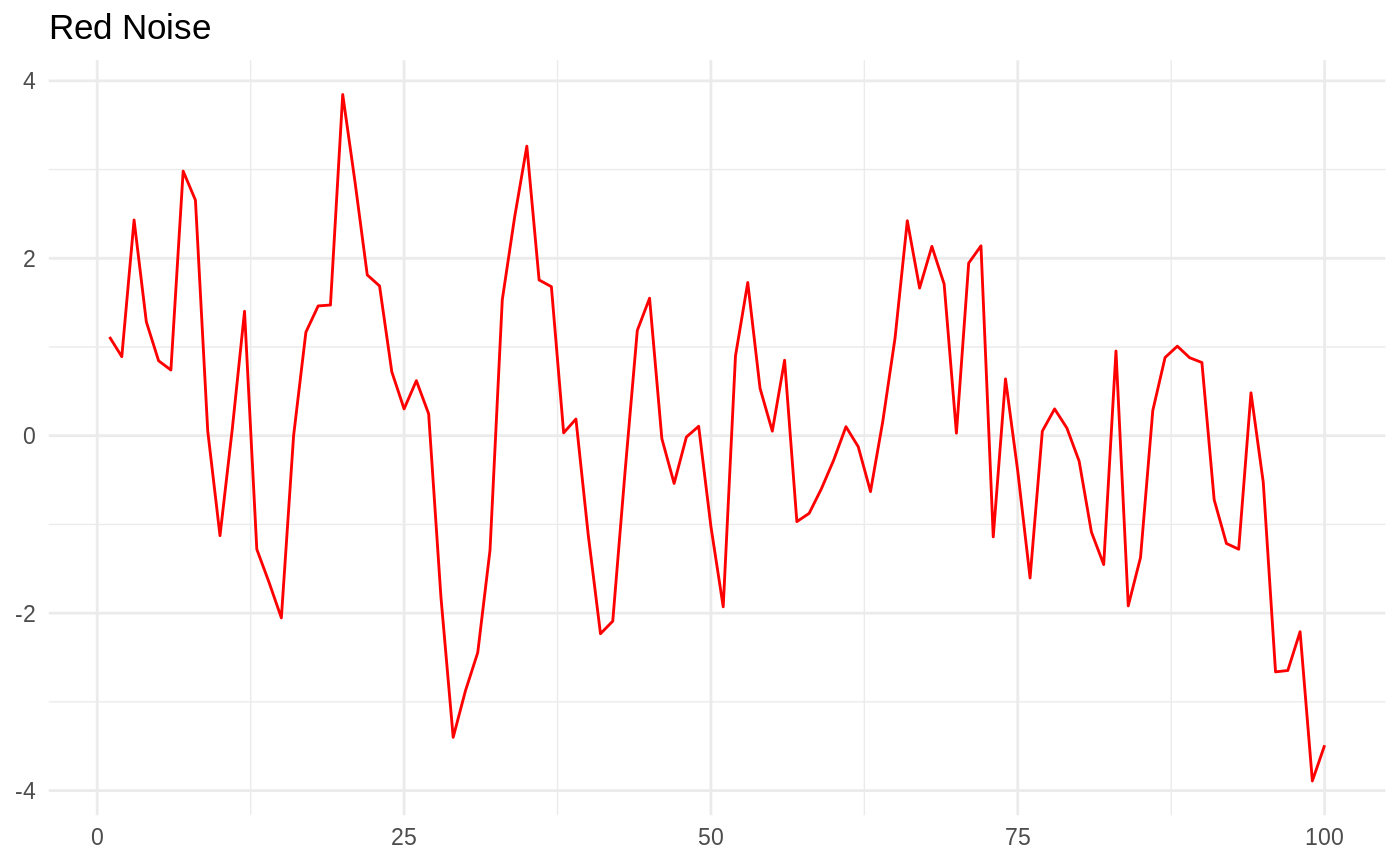
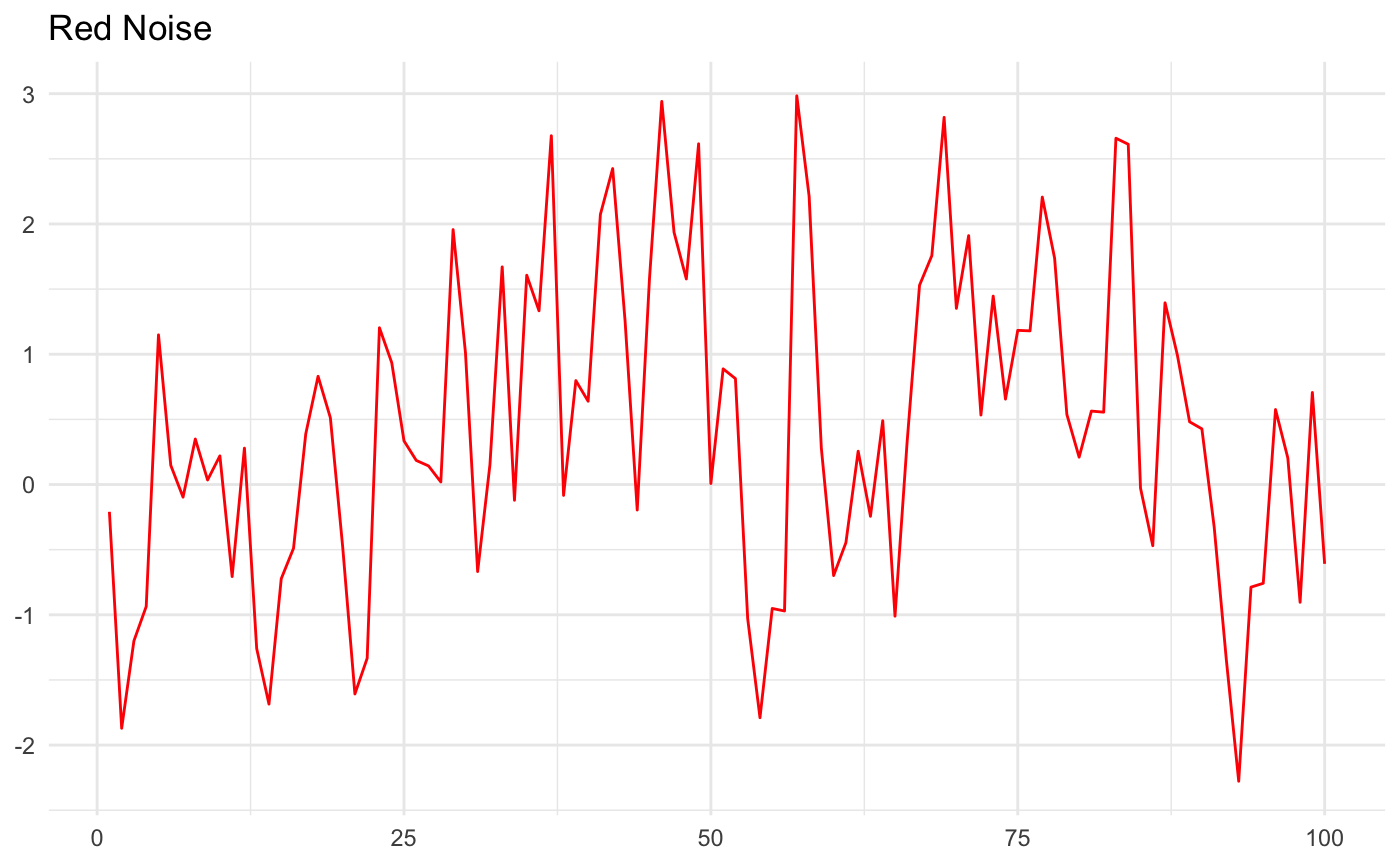
Deploy japilo/colorednoise to github.com/japilo/colorednoise.git:gh-pages

diff --git a/articles/noise.html b/articles/noise.html
@@ -111,12 +111,12 @@
 <p>To show you how you can use this package to simulate and analyze colored noise, I will present a problem for us to solve. Let’s say we want to find out whether our estimates of temporal autocorrelation are biased when the standard deviation of the colored noise is high. First, let’s use the <code>raw_noise</code> function to generate some colored noise with high variance.</p>
 <div class="sourceCode" id="cb1"><html><body><pre class="r"><span class="no">red</span> <span class="kw">&lt;-</span> <span class="fu">colored_noise</span>(<span class="kw">timesteps</span> <span class="kw">=</span> <span class="fl">100</span>, <span class="kw">mean</span> <span class="kw">=</span> <span class="fl">0.3</span>, <span class="kw">sd</span> <span class="kw">=</span> <span class="fl">1.2</span>, <span class="kw">phi</span> <span class="kw">=</span> <span class="fl">0.5</span>)
 <span class="no">red</span>[<span class="fl">1</span>:<span class="fl">10</span>]
-<span class="co">#&gt;  [1]  1.11338642  0.89122190  2.43140940  1.28325965  0.84462601  0.74068681</span>
-<span class="co">#&gt;  [7]  2.98260404  2.65548387  0.05542248 -1.12641164</span>
+<span class="co">#&gt;  [1] -0.20935359 -1.87097168 -1.19974971 -0.93623893  1.14874881  0.14721340</span>
+<span class="co">#&gt;  [7] -0.09697702  0.34928677  0.03485599  0.21962098</span>
 <span class="no">blue</span> <span class="kw">&lt;-</span> <span class="fu">colored_noise</span>(<span class="kw">timesteps</span> <span class="kw">=</span> <span class="fl">100</span>, <span class="kw">mean</span> <span class="kw">=</span> <span class="fl">0.3</span>, <span class="kw">sd</span> <span class="kw">=</span> <span class="fl">1.2</span>, <span class="kw">phi</span> <span class="kw">=</span> -<span class="fl">0.5</span>)
 <span class="no">blue</span>[<span class="fl">1</span>:<span class="fl">10</span>]
-<span class="co">#&gt;  [1]  0.04577544  0.80638740  1.84709282 -0.48648466 -1.10795567  2.17319105</span>
-<span class="co">#&gt;  [7] -0.84642927  1.97186461 -2.42890221  1.59705019</span>
+<span class="co">#&gt;  [1]  1.5516770 -1.7072008  2.4646830 -1.1747160  0.8458874  0.8579653</span>
+<span class="co">#&gt;  [7] -0.8171834  0.7091168  0.2623846  0.9916333</span>
 <span class="fu">ggplot</span>(<span class="kw">data</span> <span class="kw">=</span> <span class="kw">NULL</span>, <span class="fu">aes</span>(<span class="kw">x</span> <span class="kw">=</span> <span class="fu"><a href="https://rdrr.io/r/base/c.html">c</a></span>(<span class="fl">1</span>:<span class="fl">100</span>), <span class="kw">y</span> <span class="kw">=</span> <span class="no">blue</span>)) + <span class="fu">geom_line</span>(<span class="kw">color</span><span class="kw">=</span><span class="st">"blue"</span>) + <span class="fu">theme_minimal</span>() + <span class="fu">theme</span>(<span class="kw">axis.title</span> <span class="kw">=</span> <span class="fu">element_blank</span>()) + <span class="fu">ggtitle</span>(<span class="st">"Blue Noise"</span>)</pre></body></html></div>
 <p><img src="noise_files/figure-html/generate%20noise-1.png" width="700"></p>
 <div class="sourceCode" id="cb2"><html><body><pre class="r"><span class="fu">ggplot</span>(<span class="kw">data</span> <span class="kw">=</span> <span class="kw">NULL</span>, <span class="fu">aes</span>(<span class="kw">x</span> <span class="kw">=</span> <span class="fu"><a href="https://rdrr.io/r/base/c.html">c</a></span>(<span class="fl">1</span>:<span class="fl">100</span>), <span class="kw">y</span> <span class="kw">=</span> <span class="no">red</span>)) + <span class="fu">geom_line</span>(<span class="kw">color</span><span class="kw">=</span><span class="st">"red"</span>) + <span class="fu">theme_minimal</span>() + <span class="fu">theme</span>(<span class="kw">axis.title</span> <span class="kw">=</span> <span class="fu">element_blank</span>()) + <span class="fu">ggtitle</span>(<span class="st">"Red Noise"</span>)</pre></body></html></div>
@@ -124,22 +124,22 @@
 <p>The red noise and blue noise look the way they should. Now let’s estimate the mean, SD, and autocorrelation of these two sets of random numbers to see how well they match the parameters we used to generate them.</p>
 <div class="sourceCode" id="cb3"><html><body><pre class="r"><span class="fu">invoke_map</span>(<span class="fu"><a href="https://rdrr.io/r/base/list.html">list</a></span>(<span class="no">mean</span>, <span class="no">sd</span>, <span class="no">autocorrelation</span>), <span class="fu"><a href="https://rdrr.io/r/base/rep.html">rep</a></span>(<span class="fu"><a href="https://rdrr.io/r/base/list.html">list</a></span>(<span class="fu"><a href="https://rdrr.io/r/base/list.html">list</a></span>(<span class="no">red</span>)), <span class="fl">3</span>))
 <span class="co">#&gt; [[1]]</span>
-<span class="co">#&gt; [1] 0.09605931</span>
+<span class="co">#&gt; [1] 0.4518703</span>
 <span class="co">#&gt; </span>
 <span class="co">#&gt; [[2]]</span>
-<span class="co">#&gt; [1] 1.589679</span>
+<span class="co">#&gt; [1] 1.199526</span>
 <span class="co">#&gt; </span>
 <span class="co">#&gt; [[3]]</span>
-<span class="co">#&gt; [1] 0.684355</span>
+<span class="co">#&gt; [1] 0.4938851</span>
 <span class="fu">invoke_map</span>(<span class="fu"><a href="https://rdrr.io/r/base/list.html">list</a></span>(<span class="no">mean</span>, <span class="no">sd</span>, <span class="no">autocorrelation</span>), <span class="fu"><a href="https://rdrr.io/r/base/rep.html">rep</a></span>(<span class="fu"><a href="https://rdrr.io/r/base/list.html">list</a></span>(<span class="fu"><a href="https://rdrr.io/r/base/list.html">list</a></span>(<span class="no">blue</span>)), <span class="fl">3</span>))
 <span class="co">#&gt; [[1]]</span>
-<span class="co">#&gt; [1] 0.2752775</span>
+<span class="co">#&gt; [1] 0.3797234</span>
 <span class="co">#&gt; </span>
 <span class="co">#&gt; [[2]]</span>
-<span class="co">#&gt; [1] 1.24225</span>
+<span class="co">#&gt; [1] 1.148722</span>
 <span class="co">#&gt; </span>
 <span class="co">#&gt; [[3]]</span>
-<span class="co">#&gt; [1] -0.5798485</span></pre></body></html></div>
+<span class="co">#&gt; [1] -0.5930628</span></pre></body></html></div>
 <p>The estimates for these seem to be quite accurate. But let’s try generating a whole lot of colored noise across a range of variance and color and estimating the autocorrelation of each replicate.</p>
 <div class="sourceCode" id="cb4"><html><body><pre class="r"><span class="no">raw_sims</span> <span class="kw">&lt;-</span> <span class="fu">cross_df</span>(<span class="fu"><a href="https://rdrr.io/r/base/list.html">list</a></span>(<span class="kw">timesteps</span> <span class="kw">=</span> <span class="fl">20</span>, <span class="kw">phi</span> <span class="kw">=</span> <span class="fu"><a href="https://rdrr.io/r/base/c.html">c</a></span>(-<span class="fl">0.5</span>, <span class="fl">0</span>, <span class="fl">0.5</span>), <span class="kw">mean</span> <span class="kw">=</span> <span class="fl">0.3</span>, <span class="kw">sd</span> <span class="kw">=</span> <span class="fu"><a href="https://rdrr.io/r/base/c.html">c</a></span>(<span class="fl">0.5</span>, <span class="fl">0.7</span>, <span class="fl">0.9</span>, <span class="fl">1.1</span>, <span class="fl">1.3</span>, <span class="fl">1.5</span>))) <span class="kw">%&gt;%</span> <span class="fu">rerun</span>(<span class="kw">.n</span> <span class="kw">=</span> <span class="fl">30</span>, <span class="fu">pmap</span>(<span class="no">.</span>, <span class="no">colored_noise</span>))
 <span class="no">labels</span> <span class="kw">&lt;-</span> <span class="no">raw_sims</span> <span class="kw">%&gt;%</span> <span class="fu">map</span>(<span class="fl">1</span>) <span class="kw">%&gt;%</span> <span class="fu">rbindlist</span>()
@@ -147,13 +147,13 @@
 <span class="no">estimates</span> <span class="kw">&lt;-</span> <span class="fu">data.table</span>(<span class="kw">mu</span> <span class="kw">=</span> <span class="fu">map_dbl</span>(<span class="no">noise</span>, <span class="no">mean</span>), <span class="kw">sigma</span> <span class="kw">=</span> <span class="fu">map_dbl</span>(<span class="no">noise</span>, <span class="no">sd</span>), <span class="kw">autocorrelation</span> <span class="kw">=</span> <span class="fu">map_dbl</span>(<span class="no">noise</span>, <span class="no">autocorrelation</span>))
 <span class="no">sd_range</span> <span class="kw">&lt;-</span> <span class="fu"><a href="https://rdrr.io/r/base/cbind.html">cbind</a></span>(<span class="no">labels</span>, <span class="no">estimates</span>)
 <span class="fu"><a href="https://rdrr.io/r/utils/head.html">head</a></span>(<span class="no">sd_range</span>)
-<span class="co">#&gt;    timesteps  phi mean  sd         mu     sigma autocorrelation</span>
-<span class="co">#&gt; 1:        20 -0.5  0.3 0.5 0.27566936 0.4378526      -0.2844773</span>
-<span class="co">#&gt; 2:        20  0.0  0.3 0.5 0.44222912 0.4498519       0.1189560</span>
-<span class="co">#&gt; 3:        20  0.5  0.3 0.5 0.32835512 0.4259221       0.3747385</span>
-<span class="co">#&gt; 4:        20 -0.5  0.3 0.7 0.38903363 0.6772863      -0.6081804</span>
-<span class="co">#&gt; 5:        20  0.0  0.3 0.7 0.30529683 0.7024957      -0.1636181</span>
-<span class="co">#&gt; 6:        20  0.5  0.3 0.7 0.02425405 0.6925781       0.6142899</span></pre></body></html></div>
+<span class="co">#&gt;    timesteps  phi mean  sd          mu     sigma autocorrelation</span>
+<span class="co">#&gt; 1:        20 -0.5  0.3 0.5  0.32941559 0.6959137     -0.63006498</span>
+<span class="co">#&gt; 2:        20  0.0  0.3 0.5  0.20651345 0.4219250     -0.12165132</span>
+<span class="co">#&gt; 3:        20  0.5  0.3 0.5  0.61199803 0.3914582      0.09640954</span>
+<span class="co">#&gt; 4:        20 -0.5  0.3 0.7  0.24751294 0.8181860     -0.27868657</span>
+<span class="co">#&gt; 5:        20  0.0  0.3 0.7 -0.05766536 0.6984738     -0.05168956</span>
+<span class="co">#&gt; 6:        20  0.5  0.3 0.7  0.32990051 0.7459511      0.91558026</span></pre></body></html></div>
 <p>We can visualize these results by finding the mean and confidence intervals of the autocorrelation estimates for each combination of variance and noise color, and plotting them out.</p>
 <div class="sourceCode" id="cb5"><html><body><pre class="r"><span class="no">summ</span> <span class="kw">&lt;-</span> <span class="no">sd_range</span>[, <span class="fu">.</span>(<span class="kw">lower.ci</span> <span class="kw">=</span> ((<span class="kw">function</span>(<span class="no">bar</span>) {
     <span class="fu"><a href="https://rdrr.io/r/stats/quantile.html">quantile</a></span>(<span class="no">bar</span>, <span class="kw">probs</span> <span class="kw">=</span> <span class="fu"><a href="https://rdrr.io/r/base/c.html">c</a></span>(<span class="fl">0.05</span>, <span class="fl">0.95</span>))<span class="kw">[[</span><span class="fl">1</span>]]
